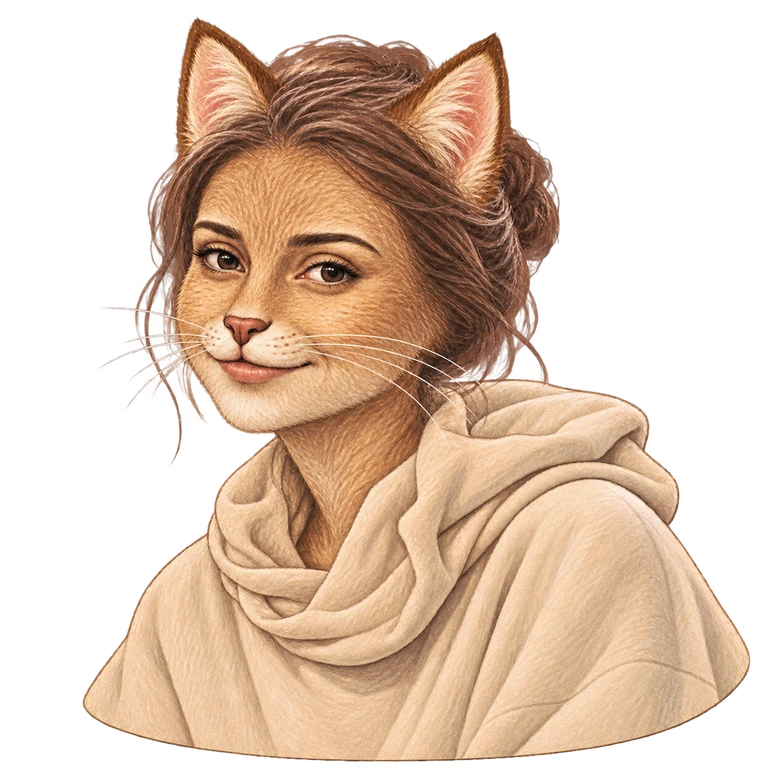
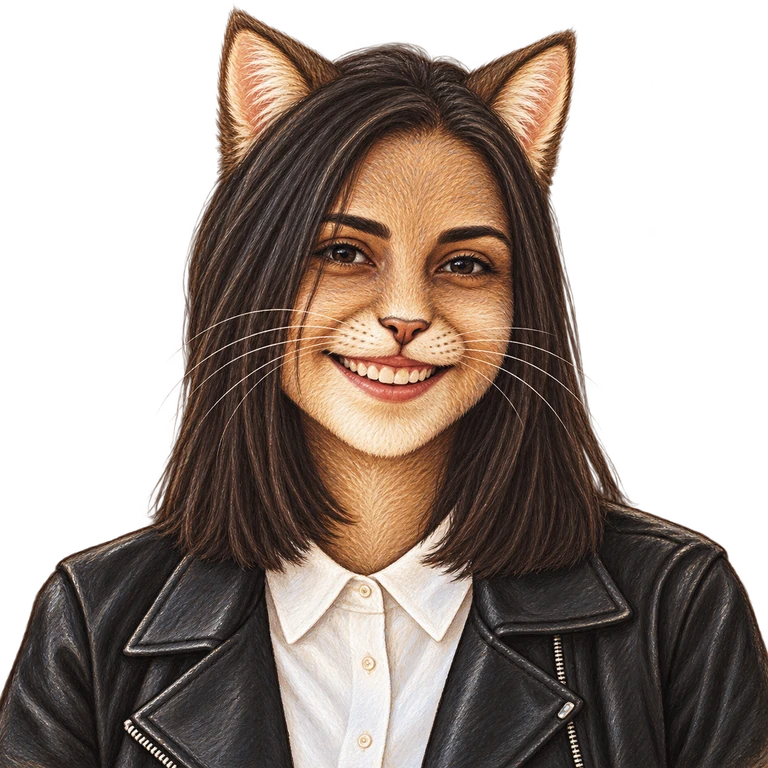
Added more persons

diff --git a/tests/game.spec.ts b/tests/game.spec.ts
@@ -547,16 +547,16 @@ test("avatar picker sorts and groups by surname while keeping surnames hidden", 
   await page.getByRole("button", { name: "Додати гравця в команду 1", exact: true }).click();
   const dialog = page.getByRole("dialog");
   await expect(dialog.locator(".avatar-letter")).toHaveText([
-    "Б", "В", "Г", "Д", "Ж", "І", "К", "Л", "М", "П", "Р", "Т", "У", "Ф", "Х", "Ц",
+    "А", "Б", "В", "Г", "Д", "Ж", "З", "І", "К", "Л", "М", "Н", "П", "Р", "С", "Т", "У", "Ф", "Х", "Ц", "Ю", "Я",
   ]);
   const choices = dialog.locator(".person-options button");
   await expect(choices).toHaveText([
-    "Хлопець", "Дівчина", "Валерія", "Ілона", "Наталя", "Тоня", "Даня", "Квітка",
-    "Левко", "Артур", "Ігор", "Аня", "Кирил", "Єгор", "Юра", "Наталя", "Валерія",
-    "Ніка", "Назар", "Мілана", "Роберт", "Розалія", "Андрій", "Андрій", "Катя", "Сандра", "Льоша", "Настя", "Юра", "Нікіта",
+    "Хлопець", "Дівчина", "Емі", "Ніка", "Валерія", "Ілона", "Богдан", "Марта", "Наталя", "Тоня", "Даня", "Квітка",
+    "Левко", "Артур", "Ігор", "Ілона", "Аня", "Ярік", "Софія", "Кирил", "Єгор", "Юра", "Наталя", "Валерія",
+    "Ніка", "Назар", "Мілана", "Еля", "Ігор", "Вова", "Роберт", "Розалія", "Андрій", "Олена", "Андрій", "Катя", "Сандра", "Льоша", "Настя", "Саша", "Юра", "Лі", "Настя", "Нікіта", "Віталік", "Семен",
   ]);
-  await expect(choices.nth(2)).toHaveAttribute("aria-label", "Валерія, аватар 10");
-  await expect(choices.nth(3)).toHaveAttribute("aria-label", "Ілона, аватар 9");
+  await expect(choices.nth(4)).toHaveAttribute("aria-label", "Валерія, аватар 10");
+  await expect(choices.nth(5)).toHaveAttribute("aria-label", "Ілона, аватар 9");
   await expect(dialog).not.toContainText("Ганчук");
   await dialog.getByRole("button", { name: "Квітка, аватар 4", exact: true }).click();
   await expect(page.getByRole("textbox", { name: "Ім’я гравця 1, команда 1", exact: true })).toHaveValue("Квітка");
